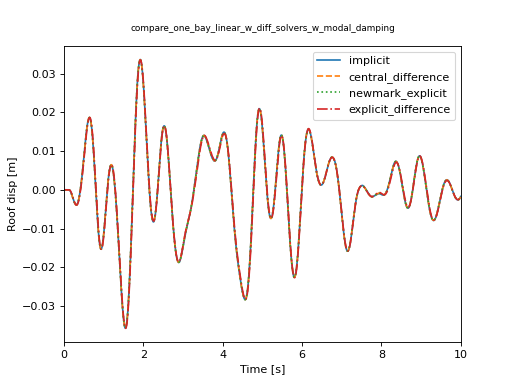
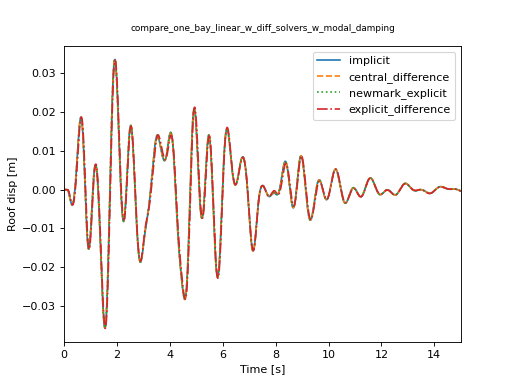
cen diff and newmark explicit now support modal damping.

diff --git a/compare_integrators/structural/fig_influence_of_damping_on_explicit_diff_soe.py b/compare_integrators/structural/fig_influence_of_damping_on_explicit_diff_soe.py
@@ -3,7 +3,7 @@ import o3seespy as o3
 import eqsig
 
 
-def run_analysis(etype, asig, xi, sdt):
+def run_analysis(etype, asig, xi, sdt, use_modal_damping=0):
     osi = o3.OpenSeesInstance(ndm=2, ndf=3)
     nodes = [o3.node.Node(osi, 0.0, 0.0),
              o3.node.Node(osi, 5.5, 0.0),
@@ -17,7 +17,6 @@ def run_analysis(etype, asig, xi, sdt):
 
     steel_mat = o3.uniaxial_material.Steel01(osi, 300.0e6, 200.0e9, b=0.02)
 
-    # o3.element.DispBeamColumn(osi, [nodes[2], nodes[3]], )
     tran = o3.geom_transf.Linear2D(osi)
     o3.element.ElasticBeamColumn2D(osi, [nodes[2], nodes[3]], 0.01, 200.0e9, iz=1.0e-4, transf=tran)
     o3.element.ElasticBeamColumn2D(osi, [nodes[0], nodes[2]], 0.01, 200.0e9, iz=1.0e-4, transf=tran)
@@ -26,27 +25,20 @@ def run_analysis(etype, asig, xi, sdt):
     a_series = o3.time_series.Path(osi, dt=asig.dt, values=-1 * asig.values)  # should be negative
     o3.pattern.UniformExcitation(osi, dir=o3.cc.X, accel_series=a_series)
 
-    angular_freqs = np.array(o3.get_eigen(osi, n=4)) ** 0.5
+    angular_freqs = np.array(o3.get_eigen(osi, n=5)) ** 0.5
     print('angular_freqs: ', angular_freqs)
     periods = 2 * np.pi / angular_freqs
     print('periods: ', periods)
 
-    # if etype in ['newmark_explicit', 'central_difference']:  # Does not support modal damping
-    #     freqs = [0.5, 5]
-    #     omega_1 = 2 * np.pi * freqs[0]
-    #     omega_2 = 2 * np.pi * freqs[1]
-    #     a0 = 2 * xi * omega_1 * omega_2 / (omega_1 + omega_2)
-    #     a1 = 2 * xi / (omega_1 + omega_2)
-    #     o3.rayleigh.Rayleigh(osi, a0, 0, a1, 0)
-    # else:
-    o3.ModalDamping(osi, [xi])
-
-    # freqs = [0.5, 5]
-    # omega_1 = 2 * np.pi * freqs[0]
-    # omega_2 = 2 * np.pi * freqs[1]
-    # a0 = 2 * xi * omega_1 * omega_2 / (omega_1 + omega_2)
-    # a1 = 2 * xi / (omega_1 + omega_2)
-    # o3.rayleigh.Rayleigh(osi, a0, 0, a1, 0)
+    if use_modal_damping:
+        o3.ModalDamping(osi, [xi])
+    else:
+        freqs = [0.5, 5]
+        omega_1 = 2 * np.pi * freqs[0]
+        omega_2 = 2 * np.pi * freqs[1]
+        a0 = 2 * xi * omega_1 * omega_2 / (omega_1 + omega_2)
+        a1 = 2 * xi / (omega_1 + omega_2)
+        o3.rayleigh.Rayleigh(osi, a0, 0, a1, 0)
 
     o3.constraints.Transformation(osi)
     o3.test_check.NormDispIncr(osi, tol=1.0e-5, max_iter=35, p_flag=0)
@@ -73,7 +65,10 @@ def run_analysis(etype, asig, xi, sdt):
         elif etype == 'explicit_difference':
             o3.system.Diagonal(osi)
             o3.integrator.ExplicitDifference(osi)
-            explicit_dt = periods[-1] / np.pi / 1.5 * sdt
+            if use_modal_damping:
+                explicit_dt = periods[-1] / np.pi / 1.5 * sdt
+            else:
+                explicit_dt = periods[-1] / np.pi / 1.5 * sdt
         else:
             raise ValueError(etype)
         print('explicit_dt: ', explicit_dt)
@@ -82,7 +77,7 @@ def run_analysis(etype, asig, xi, sdt):
 
     roof_disp = o3.recorder.NodeToArrayCache(osi, nodes[2], dofs=[o3.cc.X], res_type='disp')
     time = o3.recorder.TimeToArrayCache(osi)
-    ttotal = 10.0
+    ttotal = 15.0
 
     while o3.get_time(osi) < ttotal:
         if o3.analyze(osi, 10, dt):
@@ -110,18 +105,21 @@ def run():
     xis = [0.05, 0.1, 0.2, 0.5, 0.5, 0.05]
     scale_dts = [1, 1, 1, 1, 0.5, 1.5]
     ls = ['-', '--', ':', '--', '-.', ':']
+    use_modal_damping = 0
     bf, ax = plt.subplots()
     for i, xi in enumerate(xis):
-        time, roof_d = run_analysis(etype, acc_signal, xi, scale_dts[i])
+        time, roof_d = run_analysis(etype, acc_signal, xi, scale_dts[i], use_modal_damping=use_modal_damping)
         plt.plot(time, roof_d, label='$\\xi=$' + f'{xi*100}% dt multiplier: {scale_dts[i]}', ls=ls[i])
     ax.set_xlabel('Time [s]')
     ax.set_ylabel('Roof disp [m]')
-    ax.set_xlim([0, 10])
+    ax.set_xlim([0, 15])
     ax.set_ylim([-0.05, 0.05])
     # ax.text(1, -0.04, 'Note: Central diff. and Newmark exp. use Rayleigh damping')
     plt.legend()
     name = __file__.replace('.py', '')
     name = name.split("fig_")[-1]
+    if use_modal_damping:
+        name += '_w_modal_damping'
     ax.text(0.5, 1.05, name, horizontalalignment='center', transform=ax.transAxes,
                        color='k', fontsize=8)
     save = 1

diff --git a/compare_integrators/structural/fig_influence_of_damping_on central_diff_soe.py b/compare_integrators/structural/fig_influence_of_damping_on central_diff_soe.py
@@ -3,7 +3,7 @@ import o3seespy as o3
 import eqsig
 
 
-def run_analysis(etype, asig, xi, sdt):
+def run_analysis(etype, asig, xi, sdt, use_modal_damping=0):
     osi = o3.OpenSeesInstance(ndm=2, ndf=3)
     nodes = [o3.node.Node(osi, 0.0, 0.0),
              o3.node.Node(osi, 5.5, 0.0),
@@ -25,18 +25,20 @@ def run_analysis(etype, asig, xi, sdt):
     a_series = o3.time_series.Path(osi, dt=asig.dt, values=-1 * asig.values)  # should be negative
     o3.pattern.UniformExcitation(osi, dir=o3.cc.X, accel_series=a_series)
 
-    angular_freqs = np.array(o3.get_eigen(osi, n=4)) ** 0.5
+    angular_freqs = np.array(o3.get_eigen(osi, n=5)) ** 0.5
     print('angular_freqs: ', angular_freqs)
     periods = 2 * np.pi / angular_freqs
     print('periods: ', periods)
 
-    # Does not support modal damping
-    freqs = [0.5, 5]
-    omega_1 = 2 * np.pi * freqs[0]
-    omega_2 = 2 * np.pi * freqs[1]
-    a0 = 2 * xi * omega_1 * omega_2 / (omega_1 + omega_2)
-    a1 = 2 * xi / (omega_1 + omega_2)
-    o3.rayleigh.Rayleigh(osi, a0, 0, a1, 0)
+    if use_modal_damping:
+        o3.ModalDamping(osi, [xi])
+    else:
+        freqs = [0.5, 5]
+        omega_1 = 2 * np.pi * freqs[0]
+        omega_2 = 2 * np.pi * freqs[1]
+        a0 = 2 * xi * omega_1 * omega_2 / (omega_1 + omega_2)
+        a1 = 2 * xi / (omega_1 + omega_2)
+        o3.rayleigh.Rayleigh(osi, a0, 0, a1, 0)
 
     o3.constraints.Transformation(osi)
     o3.test_check.NormDispIncr(osi, tol=1.0e-5, max_iter=35, p_flag=0)
@@ -54,17 +56,17 @@ def run_analysis(etype, asig, xi, sdt):
             o3.integrator.NewmarkExplicit(osi, gamma=0.5)
             explicit_dt = periods[-1] / np.pi / 8
         elif etype == 'central_difference':
-            o3.system.FullGeneral(osi)
+            if use_modal_damping:
+                o3.system.FullGeneral(osi)
+                explicit_dt = periods[-1] / np.pi / 1.5 * sdt  # 1.5 is a factor of safety for damping
+            else:
+                o3.system.ProfileSPD(osi)
+                explicit_dt = periods[-1] / np.pi / 1.1 * sdt
             o3.integrator.CentralDifference(osi)
-            explicit_dt = periods[-1] / np.pi / 1.5 * sdt  # 0.5 is a factor of safety
-        elif etype == 'hht_explicit':
-            o3.integrator.HHTExplicit(osi, alpha=0.5)
-            explicit_dt = periods[-1] / np.pi / 8
         elif etype == 'explicit_difference':
-            # o3.opy.system('Diagonal')
             o3.system.Diagonal(osi)
             o3.integrator.ExplicitDifference(osi)
-            explicit_dt = periods[-1] / np.pi / 4
+            explicit_dt = periods[-1] / np.pi / 1.5
         else:
             raise ValueError(etype)
         print('explicit_dt: ', explicit_dt)
@@ -73,7 +75,7 @@ def run_analysis(etype, asig, xi, sdt):
 
     roof_disp = o3.recorder.NodeToArrayCache(osi, nodes[2], dofs=[o3.cc.X], res_type='disp')
     time = o3.recorder.TimeToArrayCache(osi)
-    ttotal = 10.0
+    ttotal = 15.0
 
     while o3.get_time(osi) < ttotal:
         if o3.analyze(osi, 10, dt):
@@ -101,18 +103,21 @@ def run():
     xis = [0.05, 0.1, 0.2, 0.5, 0.5, 0.05]
     scale_dts = [1, 1, 1, 1, 0.5, 1.5]
     ls = ['-', '--', ':', '--', '-.', ':']
+    use_modal_damping = 1
     bf, ax = plt.subplots()
     for i, xi in enumerate(xis):
-        time, roof_d = run_analysis(etype, acc_signal, xi, scale_dts[i])
+        time, roof_d = run_analysis(etype, acc_signal, xi, scale_dts[i], use_modal_damping=use_modal_damping)
         plt.plot(time, roof_d, label='$\\xi=$' + f'{xi*100}% dt multiplier: {scale_dts[i]}', ls=ls[i])
     ax.set_xlabel('Time [s]')
     ax.set_ylabel('Roof disp [m]')
-    ax.set_xlim([0, 10])
+    ax.set_xlim([0, 15])
     ax.set_ylim([-0.05, 0.05])
     # ax.text(1, -0.04, 'Note: Central diff. and Newmark exp. use Rayleigh damping')
     plt.legend()
     name = __file__.replace('.py', '')
     name = name.split("fig_")[-1]
+    if use_modal_damping:
+        name += '_w_modal_damping'
     ax.text(0.5, 1.05, name, horizontalalignment='center', transform=ax.transAxes,
                        color='k', fontsize=8)
     save = 1

diff --git a/compare_integrators/structural/fig_compare_one_bay_linear_w_diff_solvers.py b/compare_integrators/structural/fig_compare_one_bay_linear_w_diff_solvers.py
@@ -17,7 +17,6 @@ def run_analysis(etype, asig, use_modal_damping=0):
 
     steel_mat = o3.uniaxial_material.Steel01(osi, 300.0e6, 200.0e9, b=0.02)
 
-    # o3.element.DispBeamColumn(osi, [nodes[2], nodes[3]], )
     tran = o3.geom_transf.Linear2D(osi)
     o3.element.ElasticBeamColumn2D(osi, [nodes[2], nodes[3]], 0.01, 200.0e9, iz=1.0e-4, transf=tran)
     o3.element.ElasticBeamColumn2D(osi, [nodes[0], nodes[2]], 0.01, 200.0e9, iz=1.0e-4, transf=tran)
@@ -27,7 +26,7 @@ def run_analysis(etype, asig, use_modal_damping=0):
     o3.pattern.UniformExcitation(osi, dir=o3.cc.X, accel_series=a_series)
 
     xi = 0.1
-    angular_freqs = np.array(o3.get_eigen(osi, n=4)) ** 0.5
+    angular_freqs = np.array(o3.get_eigen(osi, n=5)) ** 0.5  # There are vertical modes too!
     print('angular_freqs: ', angular_freqs)
     periods = 2 * np.pi / angular_freqs
     print('periods: ', periods)
@@ -53,22 +52,25 @@ def run_analysis(etype, asig, use_modal_damping=0):
         o3.algorithm.Newton(osi)
         o3_sys(osi)
         o3.integrator.Newmark(osi, gamma=0.5, beta=0.25)
-        dt = 0.01
+        dt = 0.001
     else:
         o3.algorithm.Linear(osi, factor_once=True)
 
         if etype == 'newmark_explicit':
             o3_sys(osi)
             o3.integrator.NewmarkExplicit(osi, gamma=0.5)
-            explicit_dt = periods[-1] / np.pi / 4
+            explicit_dt = periods[-1] / np.pi / 2.01
         elif etype == 'central_difference':
             o3_sys(osi)
             o3.integrator.CentralDifference(osi)
-            explicit_dt = periods[-1] / np.pi / 4  # 0.5 is a factor of safety
+            if use_modal_damping:
+                explicit_dt = periods[-1] / np.pi / 1.5  # 1.1 is a factor of safety
+            else:
+                explicit_dt = periods[-1] / np.pi / 1.5
         elif etype == 'explicit_difference':
             o3.system.Diagonal(osi)
             o3.integrator.ExplicitDifference(osi)
-            explicit_dt = periods[-1] / np.pi / 4
+            explicit_dt = periods[-1] / np.pi / 1.6
         else:
             raise ValueError(etype)
         print('explicit_dt: ', explicit_dt)
@@ -77,7 +79,7 @@ def run_analysis(etype, asig, use_modal_damping=0):
 
     roof_disp = o3.recorder.NodeToArrayCache(osi, nodes[2], dofs=[o3.cc.X], res_type='disp')
     time = o3.recorder.TimeToArrayCache(osi)
-    ttotal = 10.0
+    ttotal = 15.0
     o3.analyze(osi, int(ttotal / dt), dt)
     o3.wipe(osi)
     return time.collect(), roof_disp.collect()
@@ -101,7 +103,7 @@ def run():
         plt.plot(time, roof_d, label=etype, ls=ls[i])
     ax.set_xlabel('Time [s]')
     ax.set_ylabel('Roof disp [m]')
-    ax.set_xlim([0, 10])
+    ax.set_xlim([0, 15])
 
     plt.legend()
     name = __file__.replace('.py', '')
